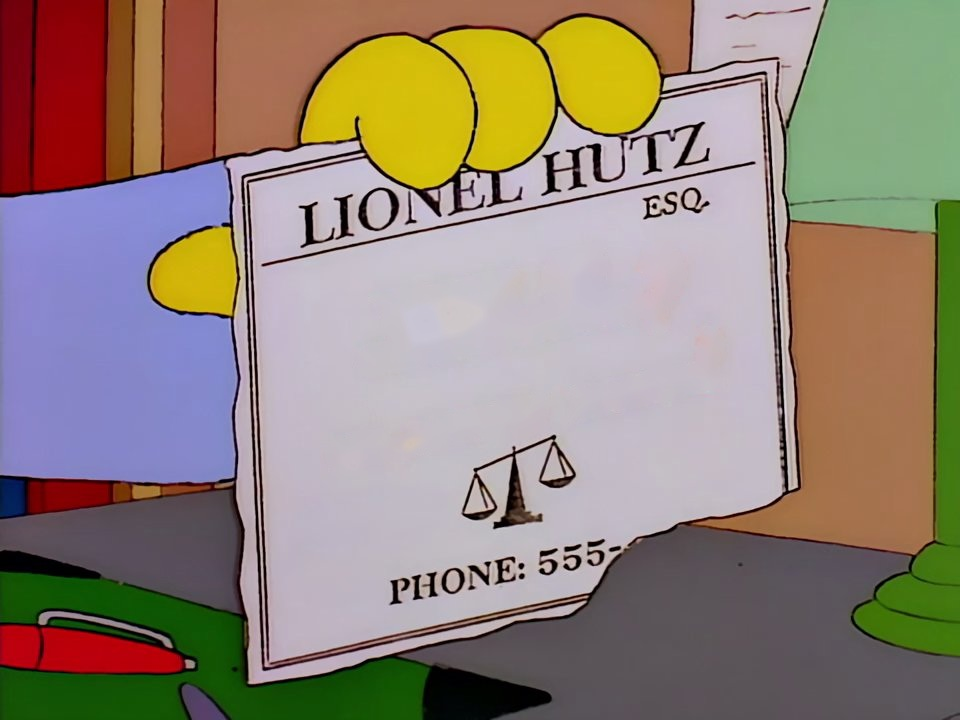
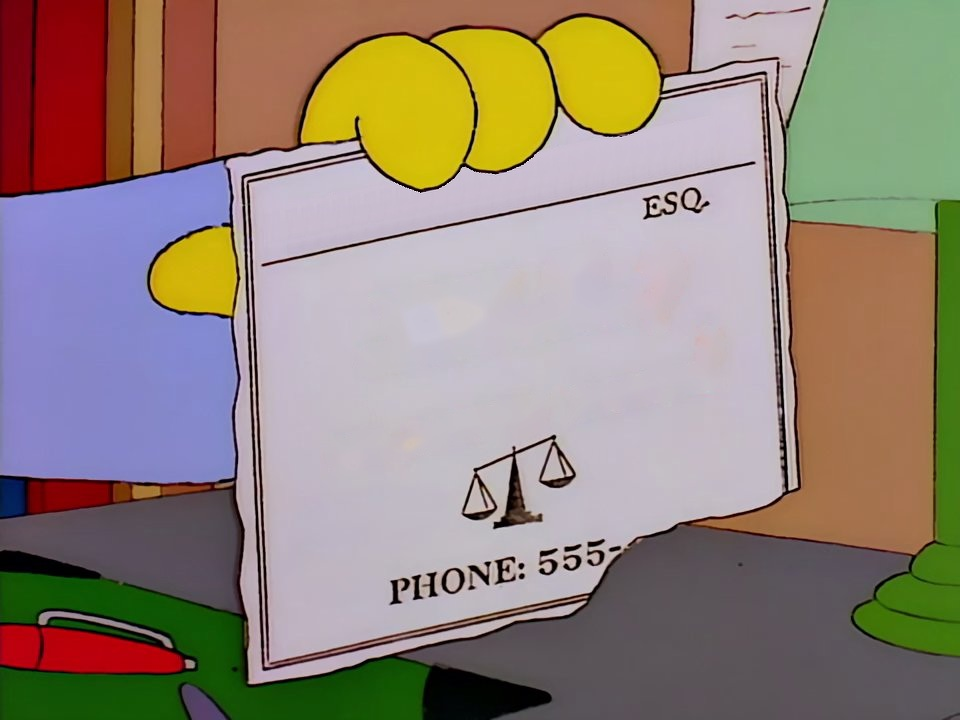
Just for asset-generation pipeline

Changed region(s): [[0.3125, 0.2139, 0.5312, 0.3667], [0.5625, 0.1528, 0.75, 0.275]]

diff --git a/tools/make_header_assets.py b/tools/make_header_assets.py
@@ -1,14 +1,15 @@
 #!/usr/bin/env python3
-"""Derive the two assets the editable card header needs.
+"""Stage 2 of the asset build: make the card header editable.
 
-`plate-clean.jpg` is the card with the printed name erased. `fingers.png` is a
-mask of the cartoon hand, which the app draws over the new text so the fingers
-occlude it.
+Reads `cleaned-body.png` (stage 1) and writes:
 
-Three things in the header must survive: the printed rules at either end of the
-name band, the hand and its drawn outline, and the paper's own shading. The band
-is therefore clipped to the rows strictly between the rules, and the hand is
-held out of the erase entirely.
+- `plate.jpg` -- the card with the printed name erased;
+- `fingers.png` -- a mask of the cartoon hand, which the app draws over the new
+  text so the fingers occlude it.
+
+Three things in the header must survive: the printed rule below the name, the
+hand and its drawn outline, and the paper's own shading. The band is therefore
+clipped to the rows the name occupies, and the hand is held out of the erase.
 """
 from pathlib import Path
 
@@ -156,7 +157,9 @@ def main():
     for d in (CARD, DEBUG):
         d.mkdir(parents=True, exist_ok=True)
 
-    plate = cv2.imread(str(CARD / "plate.jpg"))
+    # Stage 2 input: the plate with handwriting removed, straight from stage 1.
+    # Lossless, so the only JPEG in the chain is the one this stage writes.
+    plate = cv2.imread(str(DEBUG / "cleaned-body.png"))
     ph, pw = plate.shape[:2]
     H = homographies()
     inv = np.linalg.inv(H)
@@ -197,7 +200,7 @@ def main():
     clean = np.clip(plate * (1 - a) + patched * a, 0, 255).astype(np.uint8)
     clean[hand_photo > 0] = plate[hand_photo > 0]
 
-    cv2.imwrite(str(CARD / "plate-clean.jpg"), clean,
+    cv2.imwrite(str(CARD / "plate.jpg"), clean,
                 [cv2.IMWRITE_JPEG_QUALITY, 94])
     matte = np.zeros((ph, pw), np.uint8)
     matte[hand_photo > 0] = 255

diff --git a/tools/build_assets.py b/tools/build_assets.py
@@ -1,9 +1,15 @@
 #!/usr/bin/env python3
-"""Build shipping assets: the inked-out card plate and the red punctuation vectors.
+"""Stage 1 of the asset build: plate and punctuation, from the source photo.
 
-The plate removes only the handwriting; the card's printed furniture (rule lines,
-scales logo) is left intact. Masking happens in deskewed space, then the mask is
-warped back so the photograph itself is never resampled.
+Reads `assets/source/original.jpg` and writes the handwriting-free plate
+(`cleaned-body.png`) plus the red punctuation vectors traced from it.
+
+The plate removes only the handwriting; the card's printed furniture (rule
+lines, scales logo) is left intact. Masking happens in deskewed space, then the
+mask is warped back so the photograph itself is never resampled.
+
+Stage 2 (`make_header_assets.py`) then takes `cleaned-body.png` and erases the
+printed name, producing the `plate.jpg` the app ships.
 """
 import json
 import re
@@ -368,9 +374,11 @@ def main():
     hand = handwriting_mask(ink, colour)
     plate, m = build_plate(img, ink, hand, colour, M, roi.shape[1], roi.shape[0])
 
-    cv2.imwrite(str(PLATE / "plate.jpg"), plate, [cv2.IMWRITE_JPEG_QUALITY, 94])
-    cv2.imwrite(str(PLATE / "plate.png"), plate)
-    print(f"plate: masked {int((m > 0).sum())}px of handwriting -> {PLATE}")
+    # Stage 1 output, lossless: stage 2 rewrites this plate and JPEG would add
+    # a second round of compression loss on the way through. It is an
+    # intermediate rather than a shipping asset, so it lives in preview/.
+    cv2.imwrite(str(DEBUG / "cleaned-body.png"), plate)
+    print(f"plate: masked {int((m > 0).sum())}px of handwriting -> {DEBUG}")
 
     n, lab, stats, _ = cv2.connectedComponentsWithStats(ink, 8)
     marks = group_marks(lab, stats, colour, n)

diff --git a/tools/check_borders.py b/tools/check_borders.py
@@ -6,7 +6,7 @@ import cv2
 import numpy as np
 
 ROOT = Path(__file__).resolve().parent.parent
-SRC = ROOT / "assets" / "card" / "plate.png"
+SRC = ROOT / "preview" / "cleaned-body.png"
 OUT = ROOT / "preview" / "borders_check.png"
 
 # border lines as fitted: horizontal y = m*x + b, vertical x = m*y + b

diff --git a/tools/fit_borders.py b/tools/fit_borders.py
@@ -15,7 +15,7 @@ import cv2
 import numpy as np
 
 ROOT = Path(__file__).resolve().parent.parent
-SRC = ROOT / "assets" / "card" / "plate.png"
+SRC = ROOT / "preview" / "cleaned-body.png"
 OUT = ROOT / "preview" / "borders_fit.png"
 
 # seeds from preview/manual-borders.jpg, as (p, q) in photo pixels

diff --git a/tools/bounds_image.py b/tools/bounds_image.py
@@ -6,7 +6,7 @@ import cv2
 import numpy as np
 
 ROOT = Path(__file__).resolve().parent.parent
-SRC = ROOT / "assets" / "card" / "plate.png"
+SRC = ROOT / "preview" / "cleaned-body.png"
 OUT = ROOT / "preview" / "bounds.png"
 
 # src/config.ts, Canvas order (a, b, c, d, e, f)

diff --git a/tools/draw_bounds.py b/tools/draw_bounds.py
@@ -12,7 +12,7 @@ import cv2
 import numpy as np
 
 ROOT = Path(__file__).resolve().parent.parent
-SRC = ROOT / "assets" / "card" / "plate.png"
+SRC = ROOT / "preview" / "cleaned-body.png"
 CONFIG = ROOT / "src" / "config.ts"
 OUT = ROOT / "preview" / "bounds_projected.png"
 
